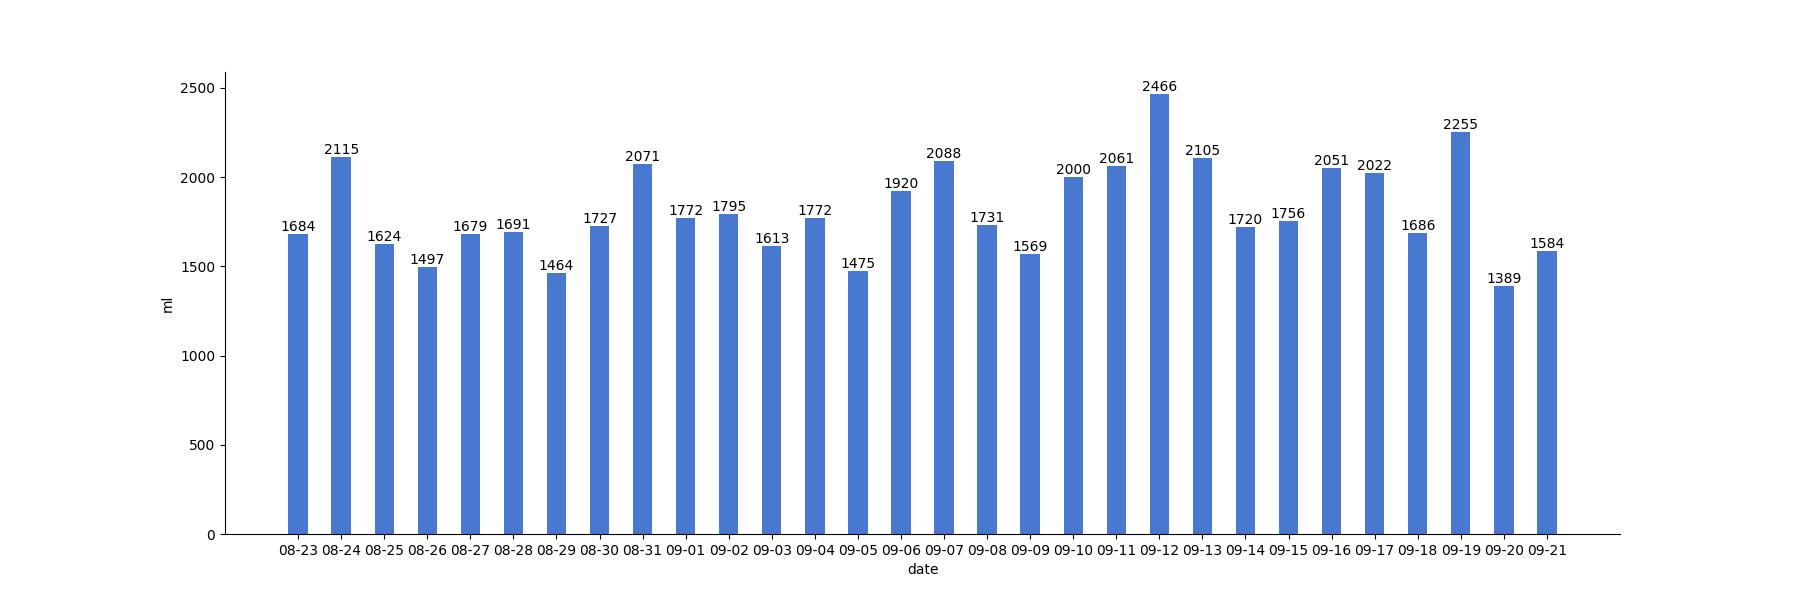
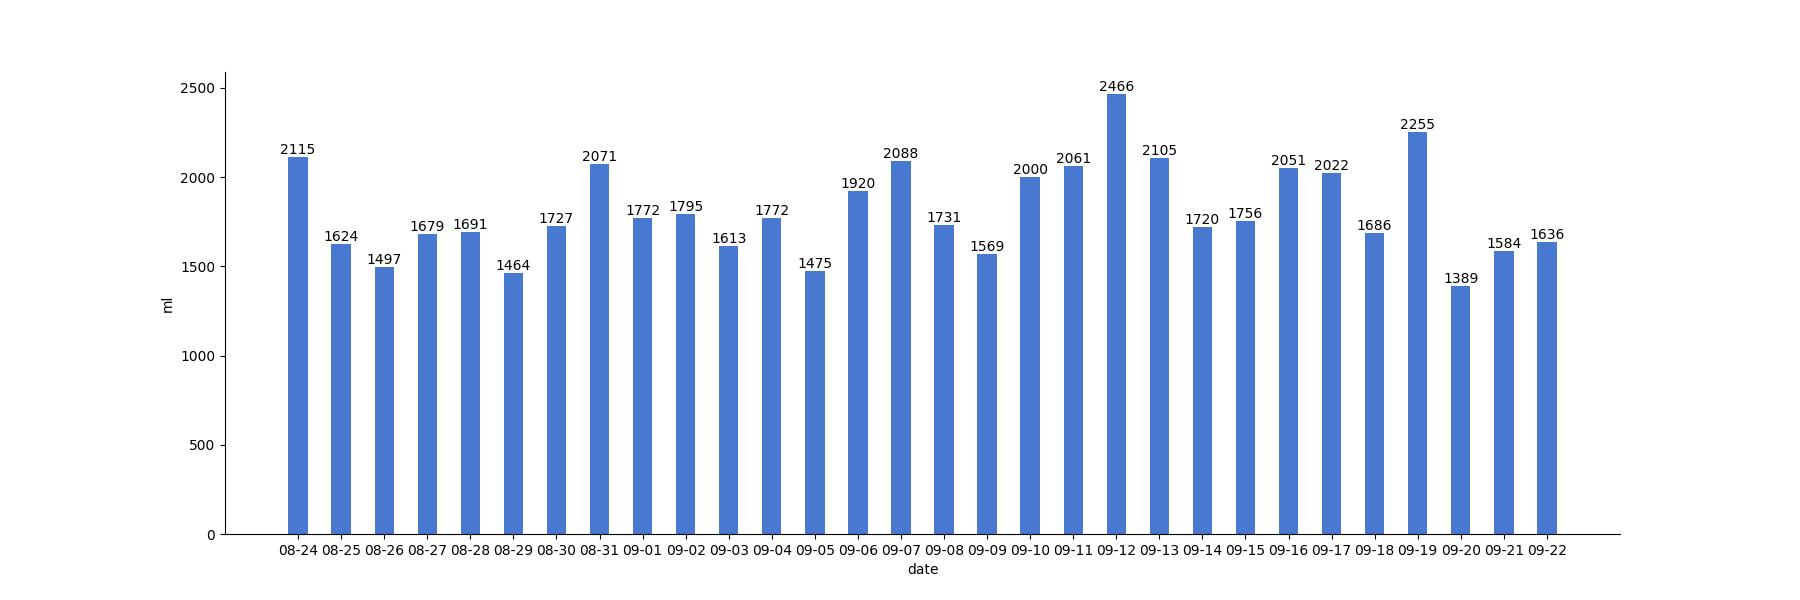
generated readme

diff --git a/README.md b/README.md
@@ -5,12 +5,12 @@
 
 | 今日总饮水量 | 每小时平均饮水量 |
 | :----: | :----: |
-| 1636 | 109 |
+| 85 | 85 |
 </div>
 
-| 日期 | 00:40:39 | 07:58:37 | 09:26:17 | 10:13:06 | 11:38:07 | 12:38:14 | 13:08:08 | 14:39:29 | 15:15:32 | 18:41:34 | 19:46:11 | 20:40:51 | 21:39:43 | 22:11:51 | 23:12:13 |
-| :----: | :----: | :----: | :----: | :----: | :----: | :----: | :----: | :----: | :----: | :----: | :----: | :----: | :----: | :----: | :----: |
-| 2022-09-22 | 38 | 158 | 132 | 123 | 90 | 200 | 83 | 119 | 80 | 149 | 57 | 62 | 200 | 67 | 78 |
+| 日期 | 00:17:37 |
+| :----: | :----: |
+| 2022-09-23 | 85 |
 
 # 近30日饮水数据
 
@@ -19,8 +19,12 @@
 
 | 总饮水量 | 日均饮水量 |
 | :----: | :----: |
-| 54382 | 1812 |
+| 54334 | 1811 |
 </div>
+
+| 日期 | all | 00:40:39 | 07:58:37 | 09:26:17 | 10:13:06 | 11:38:07 | 12:38:14 | 13:08:08 | 14:39:29 | 15:15:32 | 18:41:34 | 19:46:11 | 20:40:51 | 21:39:43 | 22:11:51 | 23:12:13 |
+| :----: | :----: | :----: | :----: | :----: | :----: | :----: | :----: | :----: | :----: | :----: | :----: | :----: | :----: | :----: | :----: | :----: |
+| 2022-09-22 | 1636 | 38 | 158 | 132 | 123 | 90 | 200 | 83 | 119 | 80 | 149 | 57 | 62 | 200 | 67 | 78 |
 
 | 日期 | all | 00:12:48 | 08:07:58 | 10:18:24 | 11:47:16 | 12:20:12 | 13:08:40 | 15:12:35 | 16:25:50 | 17:17:40 | 17:32:47 | 20:48:36 | 21:13:24 | 23:50:16 |
 | :----: | :----: | :----: | :----: | :----: | :----: | :----: | :----: | :----: | :----: | :----: | :----: | :----: | :----: | :----: |
@@ -141,8 +145,4 @@
 | 日期 | all | 07:54:35 | 09:08:48 | 10:21:34 | 11:41:04 | 12:20:34 | 12:41:42 | 13:13:23 | 13:51:25 | 15:12:30 | 16:36:09 | 17:22:11 | 17:36:52 | 19:05:24 | 19:43:05 | 21:48:08 | 22:25:39 | 22:55:23 | 23:25:24 |
 | :----: | :----: | :----: | :----: | :----: | :----: | :----: | :----: | :----: | :----: | :----: | :----: | :----: | :----: | :----: | :----: | :----: | :----: | :----: | :----: |
 | 2022-08-23 | 1684 | 117 | 197 | 67 | 43 | 200 | 29 | 105 | 44 | 126 | 68 | 200 | 67 | 97 | 83 | 52 | 79 | 49 | 61 |
-
-| 日期 | all | 00:43:41 | 07:53:02 | 08:07:22 | 09:18:22 | 09:57:37 | 10:11:50 | 12:15:16 | 12:40:49 | 13:06:42 | 14:14:18 | 15:11:37 | 16:18:18 | 17:29:54 | 19:31:11 | 22:02:07 | 22:50:28 | 23:16:29 |
-| :----: | :----: | :----: | :----: | :----: | :----: | :----: | :----: | :----: | :----: | :----: | :----: | :----: | :----: | :----: | :----: | :----: | :----: | :----: |
-| 2022-08-22 | 1695 | 75 | 150 | 93 | 103 | 68 | 84 | 200 | 82 | 87 | 65 | 114 | 67 | 200 | 95 | 52 | 70 | 90 |
 
